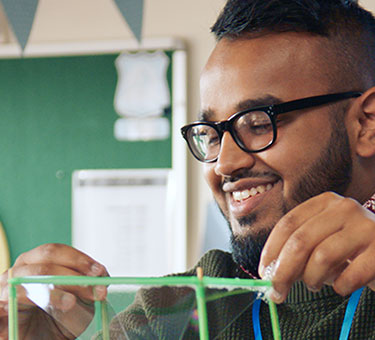
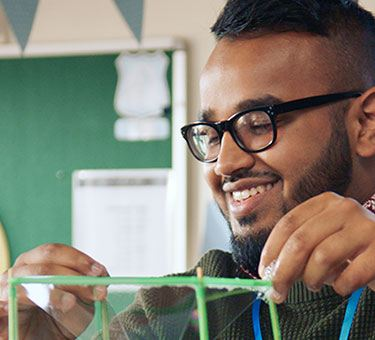
update hero images

diff --git a/content/life-as-a-teacher/my-story-into-teaching.md b/content/life-as-a-teacher/my-story-into-teaching.md
@@ -1,6 +1,7 @@
 ---
 title: "My story into teaching"
 image: "/assets/images/my-story-hero-dt.jpg"
+mobileimage: "/assets/images/my-story-hero-mob.jpg"
 backlink: "../../"
 hide_page_helpful_question: true
 navigation: 35

diff --git a/content/life-as-a-teacher.md b/content/life-as-a-teacher.md
@@ -1,6 +1,7 @@
 ---
 title: "Teaching as a career"
 image: "/assets/images/teaching-as-a-career-hero-dt.jpg"
+mobileimage: "/assets/images/teaching-as-a-career-hero-mob.jpg"
 backlink: "../"
 navigation: 30
 ---

diff --git a/content/funding-your-training.md b/content/funding-your-training.md
@@ -1,6 +1,7 @@
 ---
 title: "Funding your training"
 image: "/assets/images/funding-hero-dt.jpg"
+mobileimage: "/assets/images/funding-hero-mob.jpg"
 backlink: "../"
 navigation: 10
 ---

diff --git a/content/steps-to-become-a-teacher.md b/content/steps-to-become-a-teacher.md
@@ -1,6 +1,7 @@
 ---
 title: "Steps to become a teacher"
 image: "/assets/images/steps-hero-dt.jpg"
+mobileimage: "/assets/images/steps-hero-mob.jpg"
 backlink: "../"
 navigation: 20
 ---
